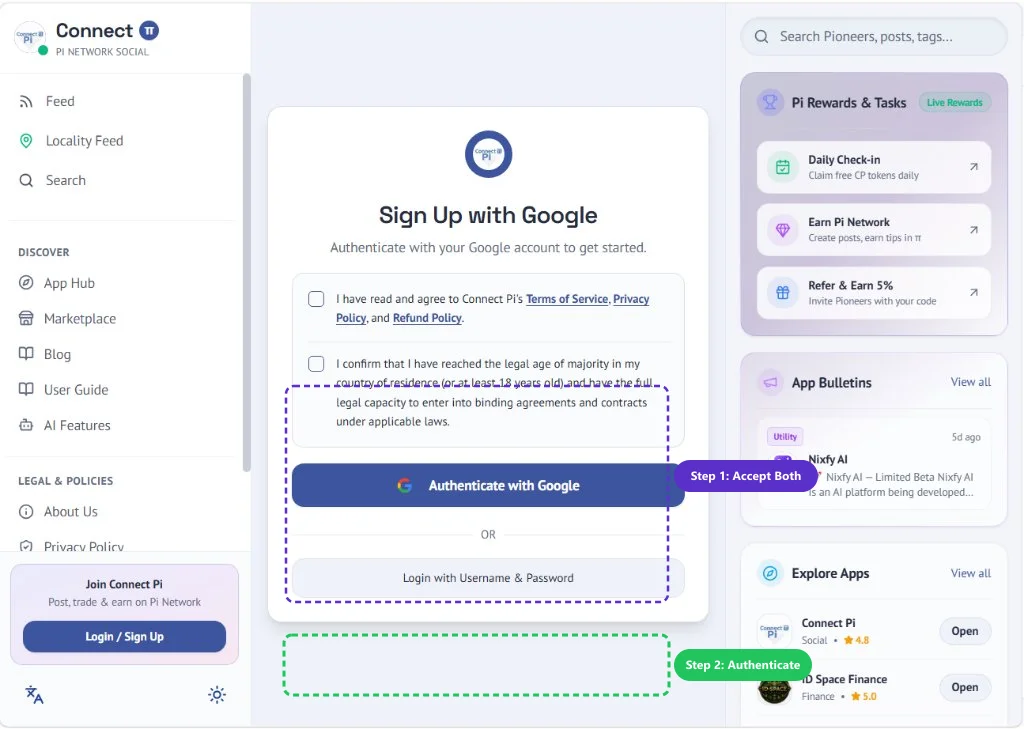
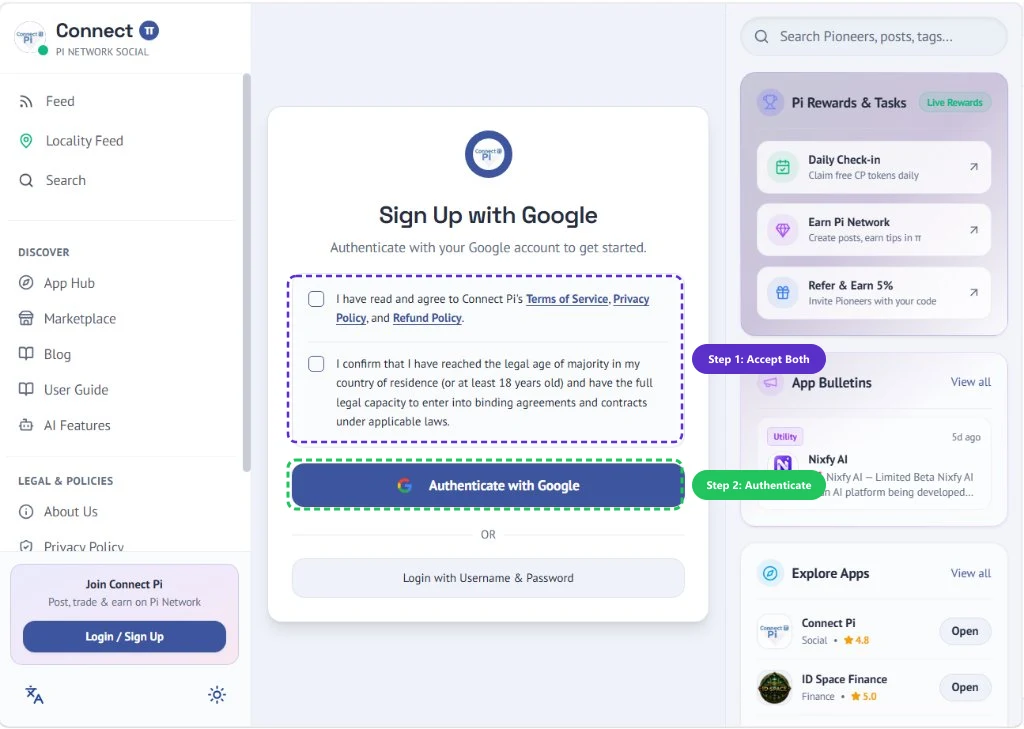
fix(images): align all highlights, badges, and redaction boxes to pixel-perfect coordinates

diff --git a/scripts/reprocess-all-images.ts b/scripts/reprocess-all-images.ts
@@ -1,0 +1,148 @@
+import sharp from "sharp";
+import path from "path";
+import fs from "fs";
+
+const uploadDir = "C:/Users/RDP/.gemini/antigravity/brain/710eadef-40cb-4dc4-9132-462f910b6ea8/.user_uploaded";
+const targetDir = path.join(process.cwd(), "public/images/articles/web");
+
+if (!fs.existsSync(targetDir)) {
+  fs.mkdirSync(targetDir, { recursive: true });
+}
+
+async function reprocessAll() {
+  console.log("⚡ Reprocessing all article images with pixel-perfect coordinates...");
+
+  // 1. media_1794393244787_d7e16a48.jpg -> pi-browser-login-choice.webp
+  // "Continue with Pi" button: x: 334 to 647, y: 264 to 308
+  const img1 = path.join(uploadDir, "media_1794393244787_d7e16a48.jpg");
+  const svg1 = `
+  <svg width="1024" height="733" viewBox="0 0 1024 733" xmlns="http://www.w3.org/2000/svg">
+    <rect x="330" y="261" width="322" height="50" rx="8" fill="none" stroke="#5B2FC9" stroke-width="3.5" stroke-dasharray="6,4" />
+    <g transform="translate(662, 270)">
+      <rect width="112" height="32" rx="16" fill="#5B2FC9" />
+      <text x="56" y="20" fill="#ffffff" font-family="-apple-system, BlinkMacSystemFont, 'Segoe UI', Roboto, sans-serif" font-size="12" font-weight="700" text-anchor="middle">Step 1: Click 👆</text>
+    </g>
+  </svg>
+  `;
+  await sharp(img1)
+    .composite([{ input: Buffer.from(svg1) }])
+    .webp({ quality: 88 })
+    .toFile(path.join(targetDir, "pi-browser-login-choice.webp"));
+  console.log("✓ Image 1 (Continue with Pi) updated");
+
+  // 2. media_1794393735912_3ca52ac1.jpg -> pi-auth-modal-allow.webp
+  // Allow button: x: 76 to 447, y: 682 to 748
+  // Gap above button: y: 620 to 680 (clean white space, badge fits perfectly at y: 640)
+  const img2 = path.join(uploadDir, "media_1794393735912_3ca52ac1.jpg");
+  const svg2 = `
+  <svg width="524" height="1024" viewBox="0 0 524 1024" xmlns="http://www.w3.org/2000/svg">
+    <rect x="73" y="679" width="377" height="72" rx="10" fill="none" stroke="#22C55E" stroke-width="4" stroke-dasharray="8,4" />
+    <g transform="translate(182, 638)">
+      <rect width="160" height="32" rx="16" fill="#22C55E" />
+      <text x="80" y="20" fill="#ffffff" font-family="-apple-system, BlinkMacSystemFont, 'Segoe UI', Roboto, sans-serif" font-size="13" font-weight="700" text-anchor="middle">Tap 'Allow' Here ✅</text>
+    </g>
+  </svg>
+  `;
+  await sharp(img2)
+    .composite([{ input: Buffer.from(svg2) }])
+    .webp({ quality: 88 })
+    .toFile(path.join(targetDir, "pi-auth-modal-allow.webp"));
+  console.log("✓ Image 2 (Allow button) updated");
+
+  // 3. media_1794394442421_8d44ca68.png -> desktop-qr-login-pinet.webp
+  // QR code: x: 392 to 630, y: 268 to 505
+  // Blank space above QR: y: 232 to 266
+  const img3 = path.join(uploadDir, "media_1794394442421_8d44ca68.png");
+  const svg3 = `
+  <svg width="1024" height="734" viewBox="0 0 1024 734" xmlns="http://www.w3.org/2000/svg">
+    <rect x="388" y="264" width="246" height="245" rx="10" fill="none" stroke="#5B2FC9" stroke-width="3.5" stroke-dasharray="6,4" />
+    <g transform="translate(422, 230)">
+      <rect width="178" height="28" rx="14" fill="#5B2FC9" />
+      <text x="89" y="18" fill="#ffffff" font-family="-apple-system, BlinkMacSystemFont, 'Segoe UI', Roboto, sans-serif" font-size="11" font-weight="700" text-anchor="middle">Scan with Phone Camera 📱</text>
+    </g>
+  </svg>
+  `;
+  await sharp(img3)
+    .composite([{ input: Buffer.from(svg3) }])
+    .webp({ quality: 88 })
+    .toFile(path.join(targetDir, "desktop-qr-login-pinet.webp"));
+  console.log("✓ Image 3 (Desktop QR code) updated");
+
+  // 4. media_1794395214219_4be578c2.jpg -> google-signup-consent.webp
+  // Checkboxes: y: 278 to 442, x: 290 to 680
+  // "Authenticate with Google" button: y: 463 to 506, x: 291 to 679
+  const img4 = path.join(uploadDir, "media_1794395214219_4be578c2.jpg");
+  const svg4 = `
+  <svg width="1024" height="729" viewBox="0 0 1024 729" xmlns="http://www.w3.org/2000/svg">
+    <!-- Checkboxes outline -->
+    <rect x="288" y="276" width="394" height="166" rx="8" fill="none" stroke="#5B2FC9" stroke-width="2.5" stroke-dasharray="6,4" />
+    <g transform="translate(692, 344)">
+      <rect width="134" height="30" rx="15" fill="#5B2FC9" />
+      <text x="67" y="19" fill="#ffffff" font-family="-apple-system, BlinkMacSystemFont, 'Segoe UI', Roboto, sans-serif" font-size="11" font-weight="700" text-anchor="middle">Step 1: Accept Both</text>
+    </g>
+
+    <!-- Authenticate button outline (y: 463 to 506) -->
+    <rect x="288" y="460" width="394" height="49" rx="8" fill="none" stroke="#22C55E" stroke-width="3" stroke-dasharray="6,4" />
+    <g transform="translate(692, 470)">
+      <rect width="134" height="30" rx="15" fill="#22C55E" />
+      <text x="67" y="19" fill="#ffffff" font-family="-apple-system, BlinkMacSystemFont, 'Segoe UI', Roboto, sans-serif" font-size="11" font-weight="700" text-anchor="middle">Step 2: Authenticate</text>
+    </g>
+  </svg>
+  `;
+  await sharp(img4)
+    .composite([{ input: Buffer.from(svg4) }])
+    .webp({ quality: 88 })
+    .toFile(path.join(targetDir, "google-signup-consent.webp"));
+  console.log("✓ Image 4 (Google Signup consent & Authenticate) updated");
+
+  // 5. media_1794395412000_85411641.jpg -> google-signup-details-redacted.webp
+  // Email field: y: 340 to 385, x: 290 to 680
+  // Username field: y: 425 to 470, x: 290 to 680
+  // Continue button: y: 485 to 523, x: 293 to 679
+  const img5 = path.join(uploadDir, "media_1794395412000_85411641.jpg");
+  const svg5 = `
+  <svg width="1024" height="730" viewBox="0 0 1024 730" xmlns="http://www.w3.org/2000/svg">
+    <!-- Clean redaction inside Email field -->
+    <rect x="294" y="342" width="384" height="42" rx="6" fill="#F1F5F9" stroke="#E2E8F0" stroke-width="1" />
+    <text x="310" y="368" fill="#475569" font-family="monospace" font-size="13" font-weight="700">user****@gmail.com (Protected)</text>
+
+    <!-- Clean redaction inside Generated Username field -->
+    <rect x="294" y="426" width="384" height="42" rx="6" fill="#F1F5F9" stroke="#E2E8F0" stroke-width="1" />
+    <text x="310" y="452" fill="#475569" font-family="monospace" font-size="13" font-weight="700">pioneer_user_789 (Auto-Generated)</text>
+
+    <!-- Continue button outline (y: 485 to 523) -->
+    <rect x="289" y="482" width="393" height="44" rx="8" fill="none" stroke="#5B2FC9" stroke-width="3" stroke-dasharray="6,4" />
+    <g transform="translate(692, 489)">
+      <rect width="130" height="30" rx="15" fill="#5B2FC9" />
+      <text x="65" y="19" fill="#ffffff" font-family="-apple-system, BlinkMacSystemFont, 'Segoe UI', Roboto, sans-serif" font-size="11" font-weight="700" text-anchor="middle">Step 3: Continue 👆</text>
+    </g>
+  </svg>
+  `;
+  await sharp(img5)
+    .composite([{ input: Buffer.from(svg5) }])
+    .webp({ quality: 88 })
+    .toFile(path.join(targetDir, "google-signup-details-redacted.webp"));
+  console.log("✓ Image 5 (Details Redacted & Continue button) updated");
+
+  // 6. media_1794395686302_9619b2b5.jpg -> connectpi-login-credentials.webp
+  // Login button: y: 414 to 452, x: 318 to 663
+  const img6 = path.join(uploadDir, "media_1794395686302_9619b2b5.jpg");
+  const svg6 = `
+  <svg width="1024" height="730" viewBox="0 0 1024 730" xmlns="http://www.w3.org/2000/svg">
+    <rect x="314" y="411" width="352" height="44" rx="8" fill="none" stroke="#5B2FC9" stroke-width="3" stroke-dasharray="6,4" />
+    <g transform="translate(676, 418)">
+      <rect width="118" height="30" rx="15" fill="#5B2FC9" />
+      <text x="59" y="19" fill="#ffffff" font-family="-apple-system, BlinkMacSystemFont, 'Segoe UI', Roboto, sans-serif" font-size="11" font-weight="700" text-anchor="middle">Click Login 🔐</text>
+    </g>
+  </svg>
+  `;
+  await sharp(img6)
+    .composite([{ input: Buffer.from(svg6) }])
+    .webp({ quality: 88 })
+    .toFile(path.join(targetDir, "connectpi-login-credentials.webp"));
+  console.log("✓ Image 6 (Login credentials button) updated");
+
+  console.log("🎉 All 6 images reprocessed with pixel-perfect accuracy!");
+}
+
+reprocessAll().catch(console.error);
